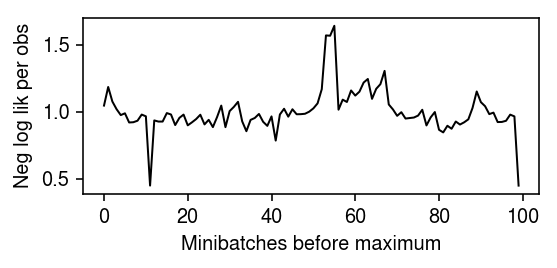
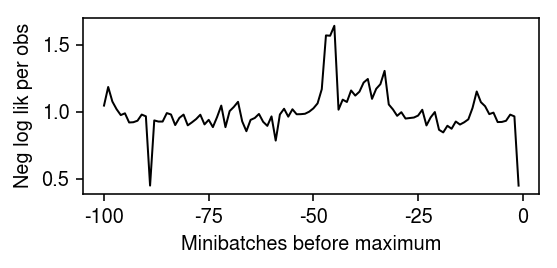
Revise writeup

diff --git a/docs/time-course.html b/docs/time-course.html
@@ -1,7 +1,7 @@
 <!DOCTYPE html>
 <html lang="en">
 <head>
-<!-- 2020-03-11 Wed 23:24 -->
+<!-- 2020-03-12 Thu 13:06 -->
 <meta charset="utf-8">
 <meta name="viewport" content="width=device-width, initial-scale=1">
 <title>Fully unsupervised topic models of scRNA-seq time course data</title>
@@ -389,27 +389,33 @@ e.g. Human Cell Atlas? As references, compare against
 Amortized inference
 (<a href="http://ruishu.io/2017/11/07/amortized-optimization/">Shu 2017</a>,
 <a href="https://papers.nips.cc/paper/7692-amortized-inference-regularization.pdf">Shu
-et al. 2018</a>) refers to a general solution to coupled optimization
-problems:
+et al. 2018</a>) refers to a strategy to efficiently solve a large (possibly
+infinite) collection of optimization problems:
 </p>
 
 <p>
-\[ \theta_i^* = \argmin_{\theta_i} f(\theta_i, \phi_i) \]
+\[ \theta^* = \argmin_{\theta} f(\theta, \phi), \]
 </p>
 
 <p>
-where \(\phi_i \in \Phi\) is some context variable. Rather than solving one
-problem for each \(\phi_i\), we learn a function \(h_\alpha\) parameterized
-by \(\alpha\) mapping \(\phi_i \rightarrow \theta_i^*\)
+where \(\phi \in \Phi\) is some context variable. Rather than solving one
+problem for each \(\phi \in \Phi\), we learn a function \(h_\alpha\)
+parameterized by \(\alpha\) which predicts \(\theta^*\) from \(\phi\)
 </p>
 
 <p>
-\[ \alpha^* = \argmin_\alpha E_{\phi \sim \hat{p}(\phi)} f(h_\alpha(\phi), \phi) \]
+\[ \alpha^* = \argmin_\alpha E_{\phi \sim \hat{p}(\phi)} f(h_\alpha(\phi), \phi), \]
 </p>
 
 <p>
 where \(\hat{p}(\phi)\) denotes the empirical distribution of \(\phi\) in
-the training data. As a concrete example, NMF
+the training data. The function \(h_\alpha\) amortizes inference over the
+training data examples by coupling the optimization problems together, and
+indeed amortizes inference over unseen examples also.
+</p>
+
+<p>
+As a concrete example, NMF
 (<a href="http://papers.nips.cc/paper/1861-algorithms-for-non-negative-matrix-factorization">Lee
 and Seung 2001</a>, <a href="https://dx.doi.org/10.1155/2009/785152">Cemgil 2009</a>)
 can be written
@@ -424,18 +430,24 @@ where \(\vx_i\) is the context variable, and the goal is to learn
 \(h_\alpha\) which maps observations \(\vx_i\) to loadings \(\vl_i\). (Here,
 we are simplifying by holding \(\mf\) fixed. In this setup, we treat the
 \(\vl_i\) as local latent variables, and \(\mf\) as a global latent
-variable. These can be optimized in alternating phases.) The optimization
-can be achieved by introducing an <i>encoder network</i> \(h_\alpha\), which has
-been previously proposed (<a href="10.1038/s41592-018-0229-2">Lopez et
-al. 2018</a>, <a href="10.1038/s41467-018-07931-2">Eraslan et
-al. 2018</a>). 
+variable. These can be optimized in alternating phases.) The resulting
+optimization problem can be solved by introducing an <i>encoder network</i>
+\(h_\alpha\), which has been previously proposed
+(<a href="10.1038/s41592-018-0229-2">Lopez et al. 2018</a>,
+<a href="10.1038/s41467-018-07931-2">Eraslan et al. 2018</a>).
 </p>
 
 <p>
-However, existing methods have a major limitation: they do not support
-sparse matrices on the GPU, making it either impossible to analyze complete
-data sets, or introducing a major bottleneck in moving minibatches to the
-GPU. We implement this functionality in the Python package <code>anmf</code>.
+Existing methods have been introduced with the motivation that auto-encoding
+networks can represent non-linear mappings into latent spaces; however, the
+gain in explanatory power of such methods is unclear. Amortized inference
+suggests a simpler, more compelling motivation to explore these methods:
+they enable the use of stochastic optimization methods to analyze large data
+sets (for example, those which do not fit in memory). However, existing
+software implementations have a major limitation: they do not support sparse
+matrices on the GPU, making it either impossible to analyze complete data
+sets, or introducing a major bottleneck in moving minibatches to the GPU. We
+implement this functionality in the Python package <code>anmf</code>.
 </p>
 </div>
 </div>
@@ -644,6 +656,19 @@ Report the time elapsed (seconds).
 </pre>
 
 <p>
+Peter Carbonetto previously derived the KKT conditions for the NMF
+objective. Report the maximum absolute KKT residual.
+</p>
+
+<div class="org-src-container">
+<pre class="src src-ipython"><span class="org-variable-name">A</span> = x / (s.reshape(-1, 1) * lhat.dot(fhat))
+<span class="org-variable-name">l_resid</span> = <span class="org-builtin">abs</span>(fhat.T * ((1 - A).T @ lhat)).<span class="org-builtin">max</span>()
+<span class="org-variable-name">f_resid</span> = <span class="org-builtin">abs</span>(lhat * ((1 - A) @ fhat.T)).<span class="org-builtin">max</span>()
+l_resid, f_resid
+</pre>
+</div>
+
+<p>
 Report the oracle loss, and the EM loss.
 </p>
 
@@ -712,8 +737,7 @@ plt.tight_layout()
 </div>
 
 <p>
-Peter Carbonetto previously derived the KKT conditions for the NMF
-objective.
+Report the maximum absolute KKT residual.
 </p>
 
 <div class="org-src-container">
@@ -788,6 +812,7 @@ Plot the end of the optimization trace.
 <pre class="src src-ipython">plt.clf()
 plt.gcf().set_size_inches(4, 2)
 plt.plot(np.array(fit.trace).ravel()[-100:] / (128 * x.shape[1]), lw=1, c=<span class="org-string">'k'</span>)
+plt.xticks(np.arange(0, 125, 25), np.arange(-100, 25, 25))
 plt.xlabel(<span class="org-string">'Minibatches before maximum'</span>)
 plt.ylabel(<span class="org-string">'Neg log lik per obs'</span>)
 plt.tight_layout()
@@ -966,7 +991,7 @@ plt.tight_layout()
 </div>
 <div id="postamble" class="status">
 <p class="author">Author: Abhishek Sarkar</p>
-<p class="date">Created: 2020-03-11 Wed 23:24</p>
+<p class="date">Created: 2020-03-12 Thu 13:06</p>
 <p class="validation"><a href="http://validator.w3.org/check?uri=referer">Validate</a></p>
 </div>
 </body>
